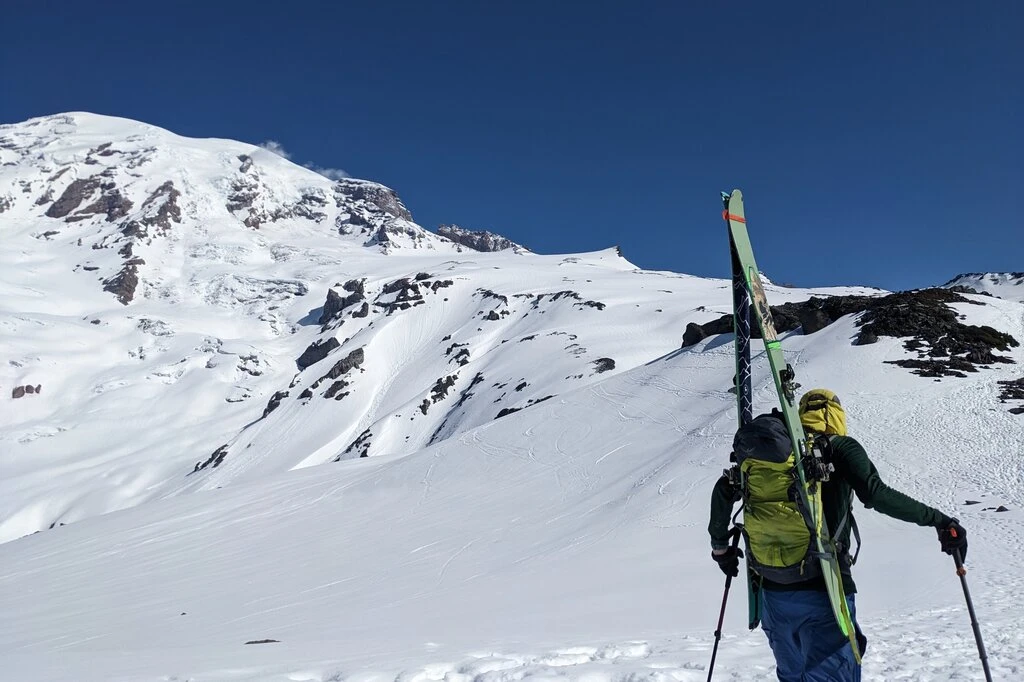
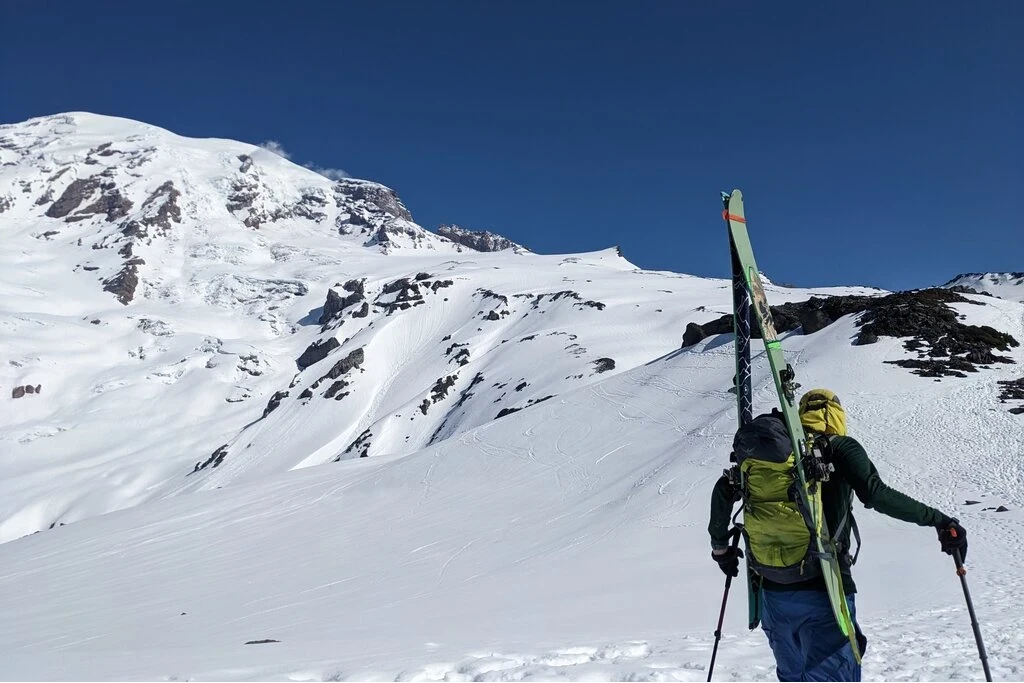
more resize

diff --git a/content/post/20230612-west-coast-adventures.md b/content/post/20230612-west-coast-adventures.md
@@ -272,7 +272,7 @@ Squamish with Brad and Becca, and stayed over at their place.
 
 <figure>
 {{< gallery-slider dir="/img/20230612-west-coast-adventures/squamish" >}}
-<figcaption style="text-align:center">Climbing The Zip; Trippy and Squirrel; guest room.</figcaption>
+<figcaption style="text-align:center">Climbing The Zip (&#x1F4F7; Rebecca Mayers); Trippy and Squirrel; guest room.</figcaption>
 </figure>
 
 I left for Vancouver early in the morning (to avoid traffic, especially
@@ -318,7 +318,7 @@ trip since 2019. Thanks again!
 | activities | ski touring, climbing, bike commuting, hiking |
 | people visited | 15+ |
 | countries | 2: Canada (BC), US (Washington, California) |
-| areas | Bay Area, Eastern Sierras, Vancouver, Seattle, Rainier, Nelson, Squamish |
+| areas | Bay Area, Eastern Sierras, Vancouver (Squamish), Seattle (Rainier), Nelson |
 | flights | 6: YYZ-SFO, SFO-YVR, SEA-YVR/YVR-YCG, YZZ-YVR, YVR-YYZ |
 | morning flights | 3: YYZ-SFO 8am, SEA-YVR 6am, YVR-YYZ 6am |
 | modes of transportation | walking, driving, flying, bicycling, skiing, bus, LRT, SkyTrain |
